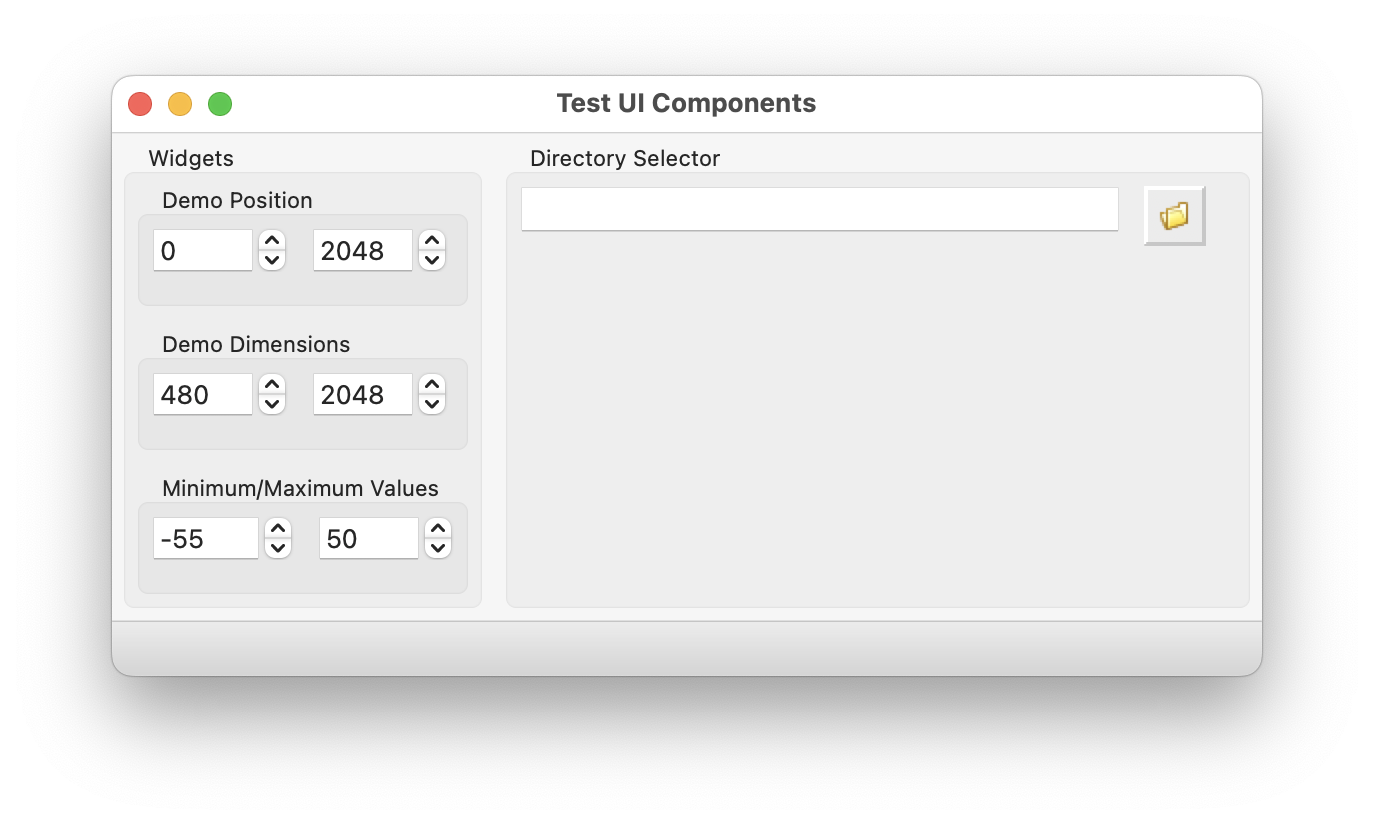
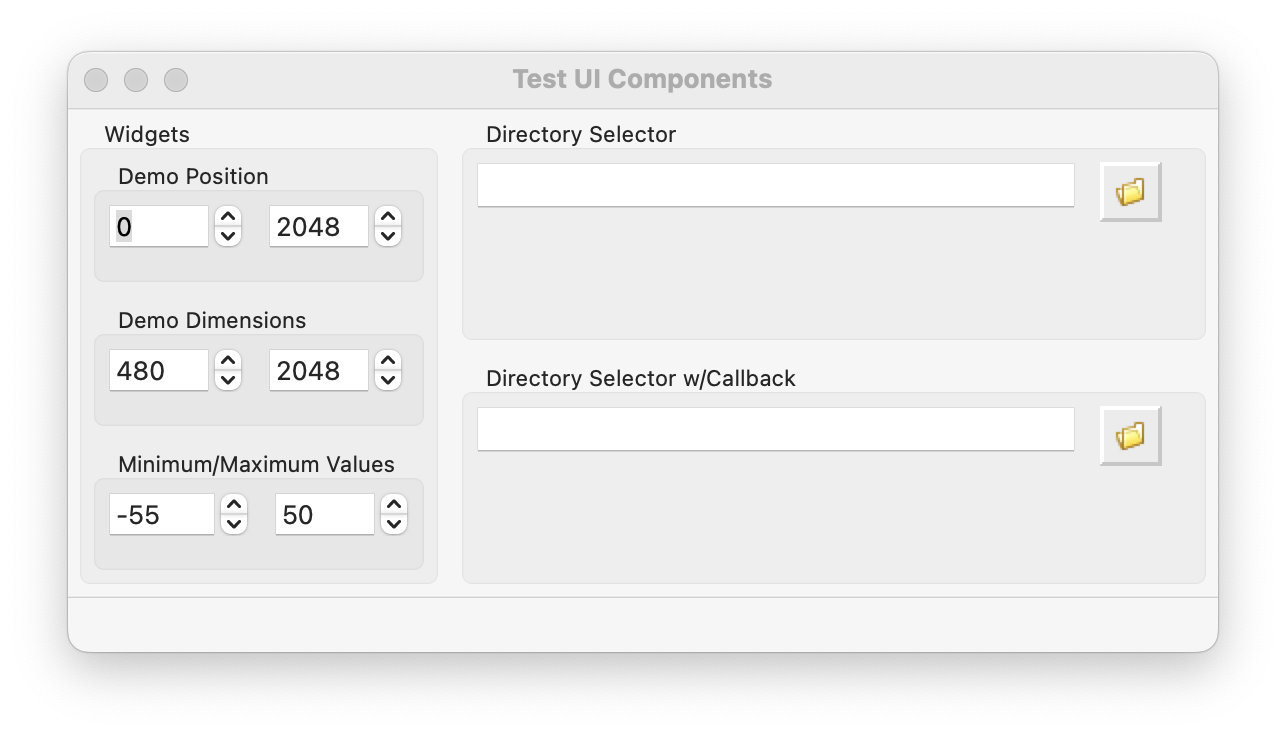
<Enhancement>[DirectorySelector]: <Mini Update>
[
* Added callback capability
* Updated demo program as a manual test
* Updated screen shot associated with README
]

[https://github.com/hasii2011/code-ally-advanced/issues/19]

diff --git a/tests/demo/DemoComponentsPanel.py b/tests/demo/DemoComponentsPanel.py
@@ -2,6 +2,10 @@
 from logging import Logger
 from logging import getLogger
 
+from pathlib import Path
+
+from wx import MessageDialog
+from wx import OK
 
 from wx.lib.sized_controls import SizedPanel
 from wx.lib.sized_controls import SizedStaticBox
@@ -66,10 +70,19 @@ class DemoComponentsPanel(SizedPanel):
 
     def _layoutDirectorySelector(self, parentPanel: SizedPanel):
 
-        labelledPanel: SizedStaticBox = SizedStaticBox(parentPanel, label='Directory Selector')
-        labelledPanel.SetSizerProps(expand=True, proportion=2)  # I want twice as much space as the spinner containers
+        verticalPanel: SizedPanel = SizedPanel(parentPanel)
+        verticalPanel.SetSizerType('vertical')
+        verticalPanel.SetSizerProps(expand=True, proportion=2)
 
-        directorySelector: DirectorySelector = DirectorySelector(parent=labelledPanel)
+        panelNoCallback: SizedStaticBox = SizedStaticBox(verticalPanel, label='Directory Selector')
+        panelNoCallback.SetSizerProps(expand=True, proportion=2)  # I want twice as much space as the spinner containers
+
+        DirectorySelector(parent=panelNoCallback)
+
+        panelWithCallback: SizedStaticBox = SizedStaticBox(verticalPanel, label='Directory Selector w/Callback')
+        panelWithCallback.SetSizerProps(expand=True, proportion=2)  # I want twice as much space as the spinner containers
+
+        DirectorySelector(parent=panelWithCallback, pathChangedCallback=self._pathChangedCallback)
 
     def _positionChanged(self, newPosition: Position):
         self.logger.info(f'Position changed: {newPosition=}')
@@ -82,3 +95,8 @@ class DemoComponentsPanel(SizedPanel):
     def _onMinMaxChanged(self, minMaxX: MinMax):
         self.logger.info(f'MinMax changed: {minMaxX=}')
         self._valuesChanged = True
+
+    def _pathChangedCallback(self, newPath: Path):
+
+        dlg: MessageDialog = MessageDialog(parent=None, message=f"New path: {newPath}", caption='Change', style=OK)
+        dlg.ShowModal()

diff --git a/src/codeallyadvanced/ui/widgets/DirectorySelector.py b/src/codeallyadvanced/ui/widgets/DirectorySelector.py
@@ -3,6 +3,7 @@ from logging import Logger
 from logging import getLogger
 
 from pathlib import Path
+from typing import Callable
 
 from wx import ID_ANY
 from wx import ID_OK
@@ -20,13 +21,30 @@ from wx.lib.sized_controls import SizedPanel
 
 from codeallyadvanced.resources.images import folder as ImgFolder
 
+DirectoryPathChangedCallback = Callable[[Path], None]
+
+CALLBACK_PARAMETER = 'pathChangedCallback'
+
 
 class DirectorySelector(SizedPanel):
     """
     """
     def __init__(self, *args, **kwargs):
+        """
+        We pass all keyword parameters to the sized panel except for 'callable'.  That
+        is for us.
+
+        Args:
+            *args:
+            **kwargs:
+        """
 
         self.logger: Logger = getLogger(__name__)
+
+        self._directorPathChangedCallback: DirectoryPathChangedCallback | None = kwargs.get(CALLBACK_PARAMETER, None)
+        if self._directorPathChangedCallback is not None:
+            kwargs.pop(CALLBACK_PARAMETER)
+
         super().__init__(*args, **kwargs)
 
         self.SetSizerType('horizontal')
@@ -60,3 +78,5 @@ class DirectorySelector(SizedPanel):
             if dlg.ShowModal() == ID_OK:
                 self._directoryPath = Path(dlg.GetPath())
                 self._textDiagramsDirectory.SetValue(str(self._directoryPath))
+                if self._directorPathChangedCallback is not None:
+                    self._directorPathChangedCallback(self._directoryPath)

diff --git a/src/codeallyadvanced/_version.py b/src/codeallyadvanced/_version.py
@@ -1,1 +1,1 @@
-__version__: str = '1.4.1'
+__version__: str = '1.4.2'
